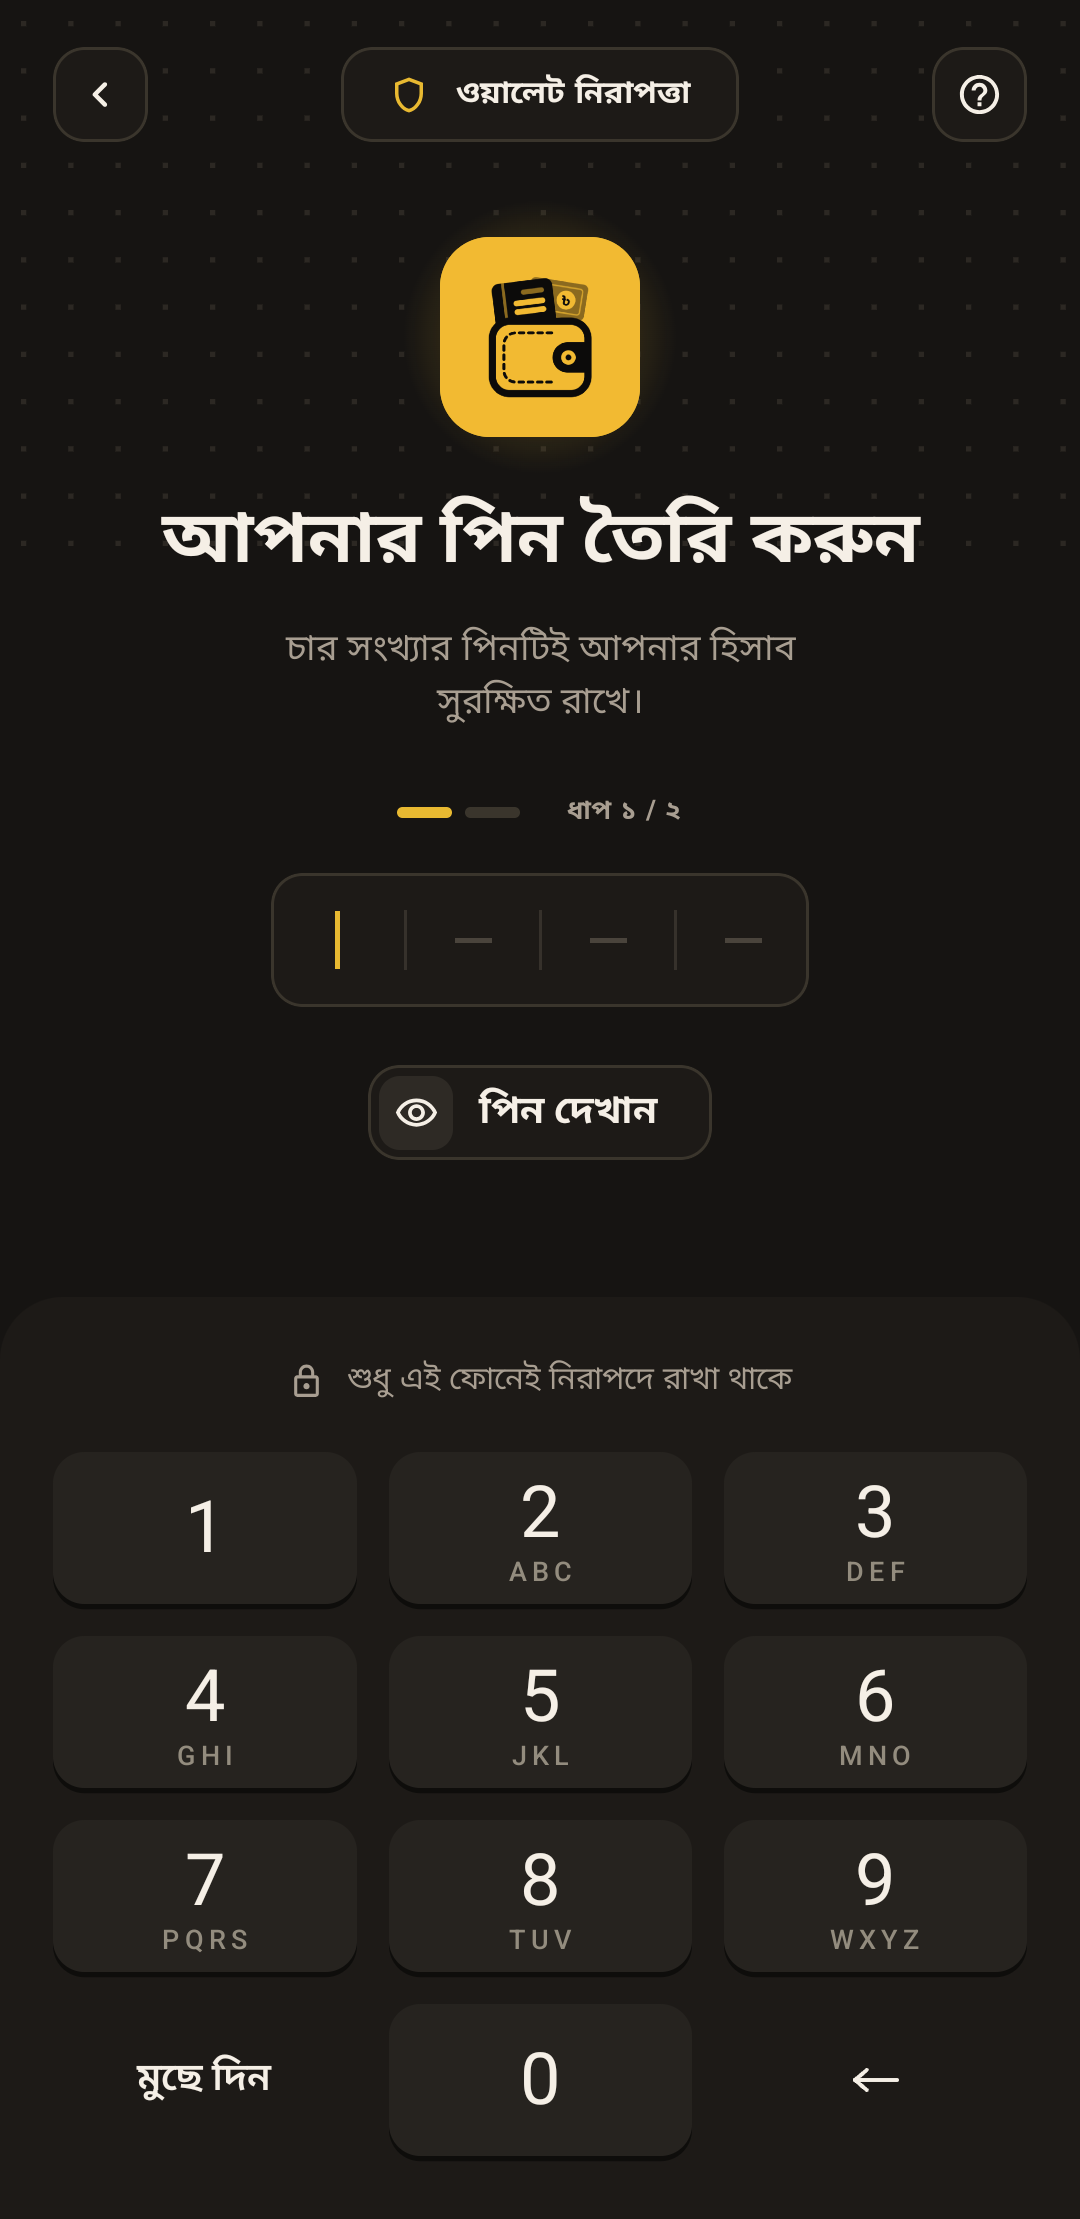
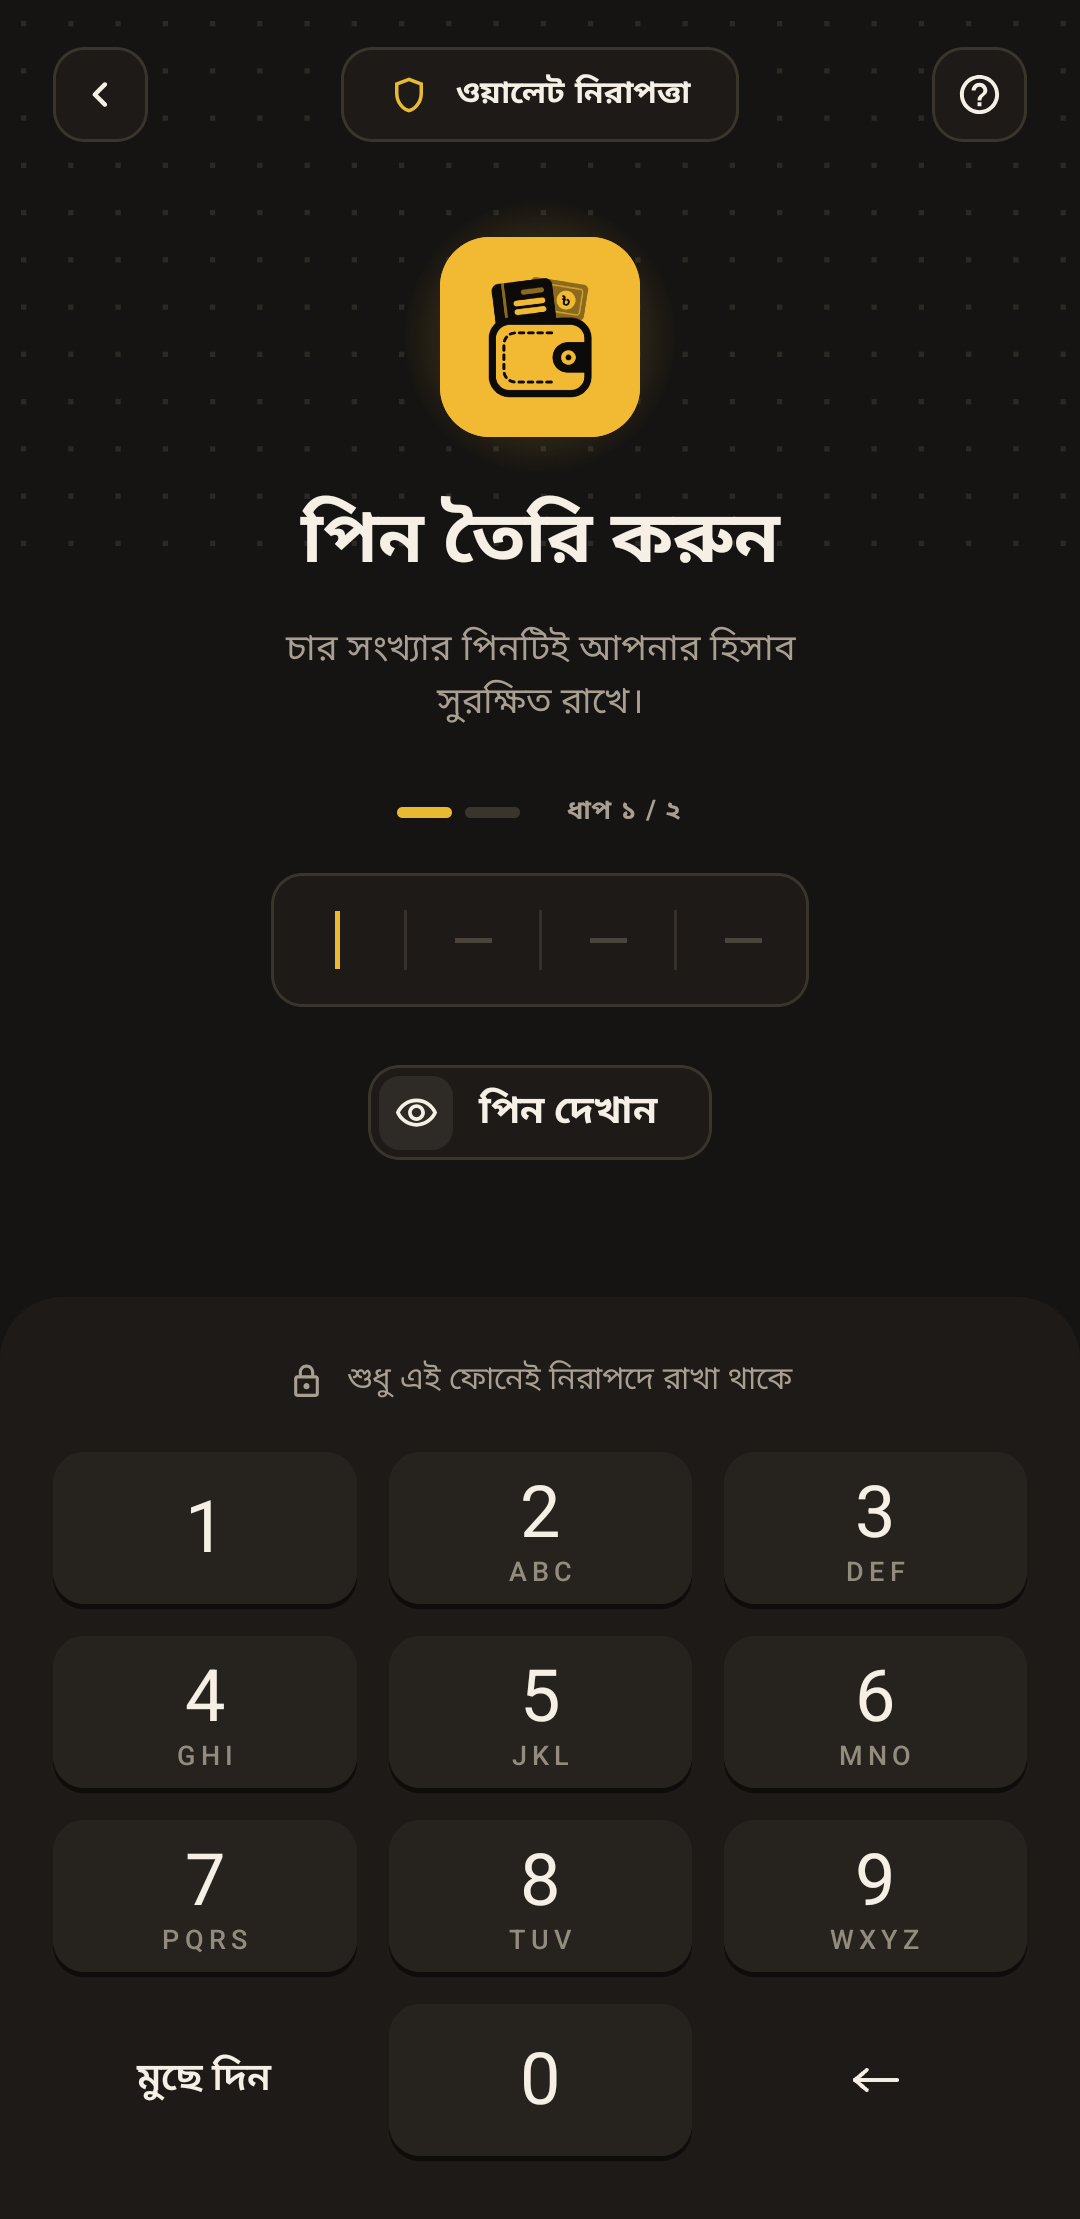
Every picture from 1.1.69, and the notifications list on the features page
1.1.69 reads dates and times the same way in both languages, retitles the Bangla PIN
screen "পিন তৈরি করুন", and adds a notifications list behind the bell. The site follows:

- The features page's twenty-four screenshots, English and Bangla, light and dark, are
  re-taken from a debug build of the v1.1.69 tag on the sample ledger -- the Bangla
  ones now show "25 Sep 2026 10:30 AM" where the app writes it so. Same cuts as before:
  status and gesture bars off, Analytics with Money Flow folded and Export taken out.
- The install guide's step 4, twelve pictures, re-taken for the new Bangla title.
- Steps 1 to 3 re-taken through a real install of the 1.1.69 release, so Chrome names
  LedgerBook_v1.1.69.apk and the installer shows the icon 1.1.68 refitted.
- A fourth card under "Keeping it safe": the list behind the bell -- updates, backups
  saved or restored, loan reminders -- kept on the phone only and cleared on reinstall,
  as the release notes say it. No picture of it: on the sample ledger it is empty.

Not changed, on purpose: the Bangla Analytics pictures still read "Sep ২০২৬" and
"আগস এর তুলনায়", because the released app does. That is the app's to fix.

Changed region(s): [[0.1528, 0.2177, 0.8556, 0.2799]]

diff --git a/assets/strings.js b/assets/strings.js
@@ -393,6 +393,13 @@ const S = {
                  'remembered.',
                  'ঢোকার মুখে পিন বা আঙুলের ছাপ। বাংলা বা ইংরেজি, আলো বা অন্ধকার, আর একটা ' +
                  'পছন্দের রং — সবই যখন খুশি বদলানো যায়, আর মনে থাকে।'],
+  // 1.1.69. Said as the release notes say it: what goes in the list, and that the list
+  // is the phone's alone -- the privacy page's promise has to hold for it too.
+  f9Head:       ['A list behind the bell', 'বেলের পেছনে একটা তালিকা'],
+  f9Body:       ['App updates, backups saved or restored, and loan reminders, gathered in ' +
+                 'one list. It is kept on your phone only, and cleared if you reinstall.',
+                 'অ্যাপের আপডেট, ব্যাকআপ সেভ বা ফেরানো, আর ধারের রিমাইন্ডার — সব এক ' +
+                 'তালিকায়। এটা শুধু আপনার ফোনেই থাকে, অ্যাপ আবার ইনস্টল করলে মুছে যায়।'],
 
   // -- privacy -----------------------------------------------------------------
   privLead:     ['The short version: nothing is collected and nothing is reported, because ' +

diff --git a/features.html b/features.html
@@ -192,7 +192,7 @@
   <!-- -- 03 keeping it safe ---------------------------------------------------- -->
   <section class="wrap block" id="safe">
     <h2 class="num-title"><span class="num-badge">03</span><span data-s="featKeepTitle">Keeping it safe</span></h2>
-    <div class="fcards fcards-3">
+    <div class="fcards fcards-4">
       <article class="card fcard">
         <span class="tile"><svg class="ico" viewBox="0 0 24 24"><circle cx="9" cy="8" r="4"/><path d="M2 21v-1a5 5 0 0 1 5-5h4a5 5 0 0 1 5 5v1"/><path d="M16 3.1a4 4 0 0 1 0 7.8M22 21v-1a5 5 0 0 0-3.5-4.8"/></svg></span>
         <h3 data-s="f6Head"></h3>
@@ -207,6 +207,11 @@
         <span class="tile"><svg class="ico" viewBox="0 0 24 24"><rect x="5" y="11" width="14" height="10" rx="2"/><path d="M8 11V7a4 4 0 0 1 8 0v4"/></svg></span>
         <h3 data-s="f8Head"></h3>
         <p data-s="f8Body"></p>
+      </article>
+      <article class="card fcard">
+        <span class="tile"><svg class="ico" viewBox="0 0 24 24"><path d="M6 8a6 6 0 0 1 12 0c0 7 3 9 3 9H3s3-2 3-9"/><path d="M10.3 21a2 2 0 0 0 3.4 0"/></svg></span>
+        <h3 data-s="f9Head"></h3>
+        <p data-s="f9Body"></p>
       </article>
     </div>
   </section>
